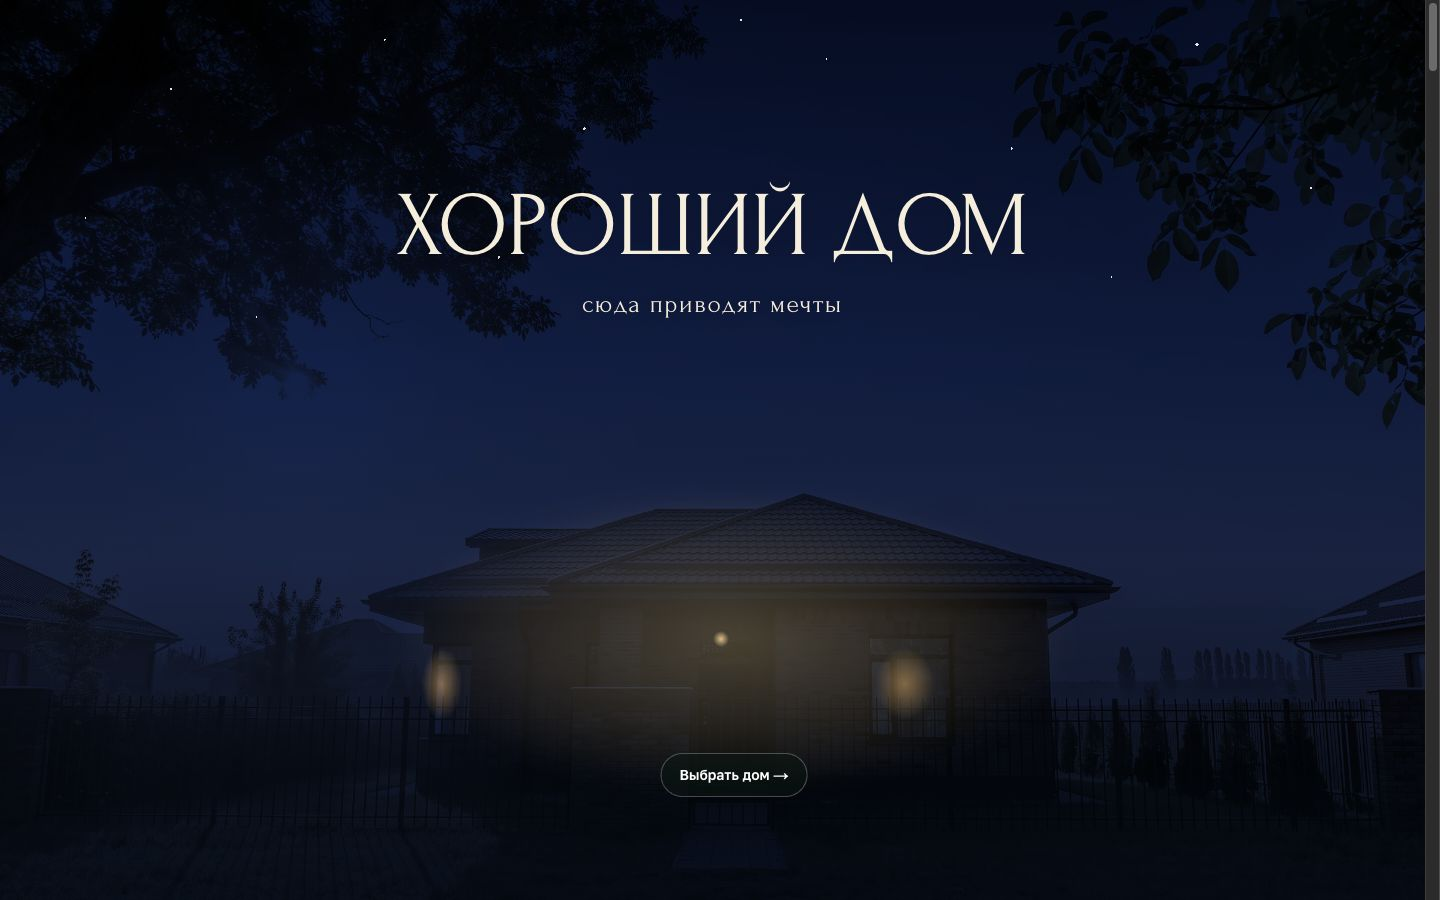
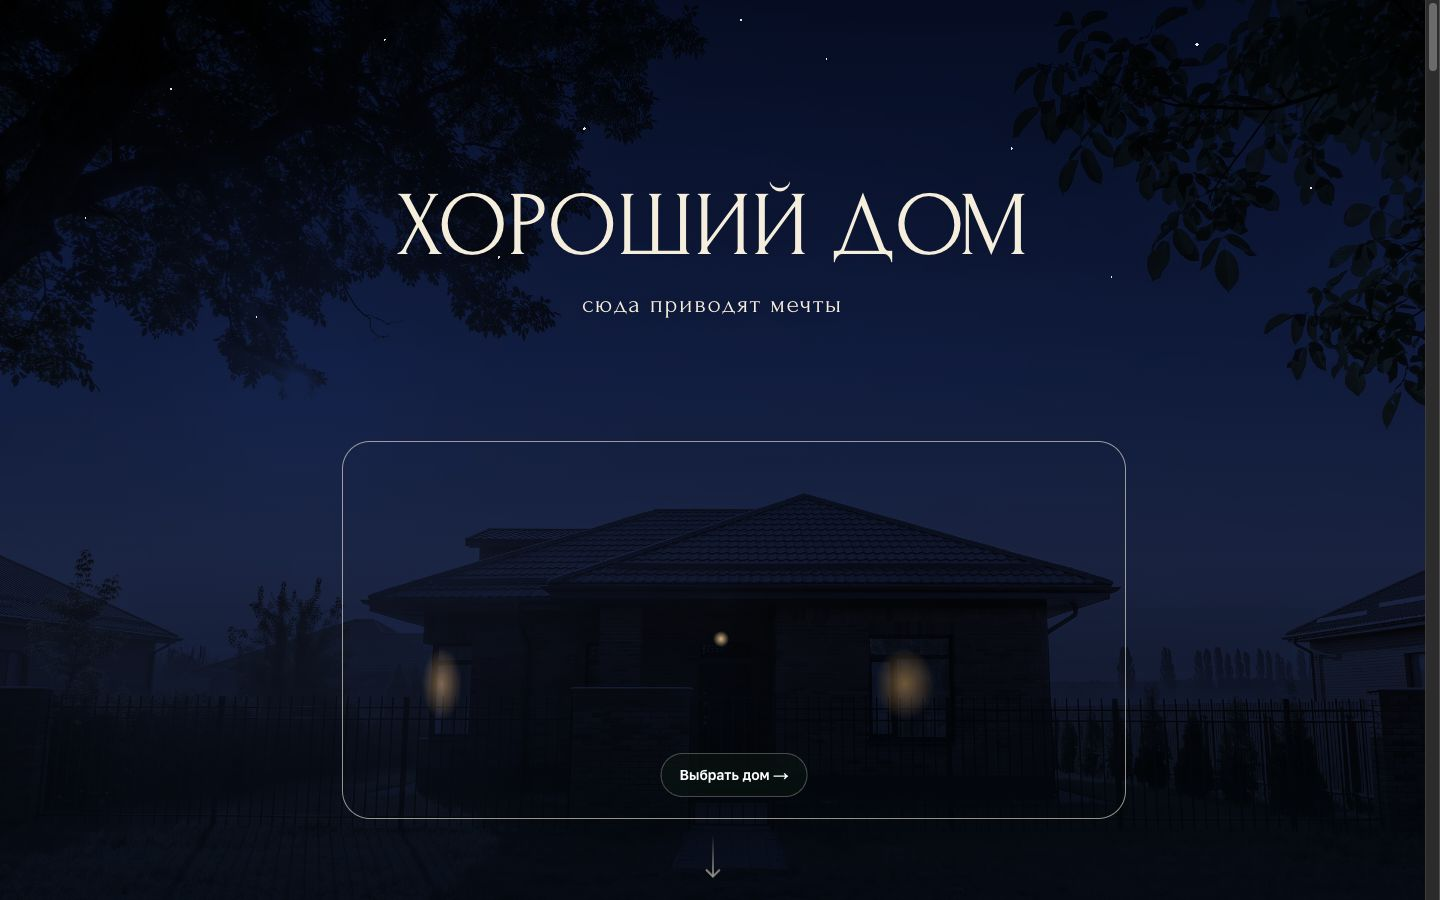
Первый экран: контурная обводка дома в цвет шрифта, свет в окнах после кометы, анимированная подсказка свайпа

Changed region(s): [[0.3438, 0.5911, 0.6875, 0.84]]

diff --git a/src/app/(frontend)/v2.css b/src/app/(frontend)/v2.css
@@ -838,10 +838,13 @@ html.no-motion .v2-steam { display: none; }/* one line from a book over the morn
 .hn__night { opacity: calc(1 - min(1, var(--p) * 1.35)); }
 .hn__night--css img { filter: brightness(.62) saturate(.35) contrast(1.1); transform: scale(1.06); }
 .hn__night--css::after { content: ""; position: absolute; inset: 0; background: linear-gradient(#0c1a44 0%, #1d3270 40%, #2c3f78 62%, #1a2448 100%); mix-blend-mode: multiply; }
-.hn__windows { position: absolute; inset: 0; z-index: 1; background:
+.hn__windows { position: absolute; inset: 0; z-index: 1; opacity: 0; background:
   radial-gradient(2cqw 3.6cqw at 31% 76%, rgba(255, 190, 100, .55), transparent 70%),
   radial-gradient(3cqw 3.6cqw at 63.5% 76%, rgba(255, 190, 100, .5), transparent 70%),
-  radial-gradient(.8cqw .8cqw at 50.6% 71%, rgba(255, 214, 150, .9), transparent 70%); mix-blend-mode: screen; }
+  radial-gradient(.8cqw .8cqw at 50.6% 71%, rgba(255, 214, 150, .9), transparent 70%); mix-blend-mode: screen;
+  /* the light in the windows turns on right after the comet's first fall (hn-star: .7s delay, the fall ≈1.2s) */
+  animation: hn-windows-on 1.4s 1.7s ease-out forwards; }
+@keyframes hn-windows-on { to { opacity: 1; } }
 .hn__stars { position: absolute; inset: 0 0 45%; z-index: 1; opacity: .9; background-image:
   radial-gradient(1.2px 1.2px at 12% 18%, #fff 98%, transparent), radial-gradient(1px 1px at 27% 8%, #fff 98%, transparent),
   radial-gradient(1.4px 1.4px at 41% 26%, #fff 98%, transparent), radial-gradient(1px 1px at 58% 12%, #fff 98%, transparent),
@@ -866,20 +869,28 @@ html.no-motion .v2-steam { display: none; }/* one line from a book over the morn
 .hn__slogan { font-family: var(--font-brand); font-size: clamp(18px, 1.8cqw, 26px); letter-spacing: .06em; text-shadow: 0 2px 20px rgba(8, 16, 40, .65); transition: text-shadow .6s; }
 .hn.is-day .hn__copy { color: #14301f; }
 .hn.is-day :is(.hn__title, .hn__slogan) { text-shadow: 0 1px 18px rgba(255, 255, 255, .6); }
-/* the house is the entry: a soft warm halo breathes over it — light, not a frame; the label shows on hover/focus,
-   a click zooms in and opens the catalog */
+/* the house is the entry: a thin contour in the brand font colour (10.11, Игорь — no breathing halo). The windows
+   light up right after the comet's first fall; the «Выбрать дом» label shows on hover/focus, a click opens the catalog */
 .hn__house { position: absolute; z-index: 4; left: 24%; top: 49%; width: 55%; height: 42%; display: block; }
-.hn__house > i { position: absolute; inset: -14%; pointer-events: none; opacity: 0; filter: blur(8px);
-  background: radial-gradient(ellipse 50% 46% at 50% 52%, rgba(255, 226, 160, .34) 0%, rgba(255, 214, 140, .15) 42%, transparent 68%);
-  animation: hn-glow-in 1.4s 1.1s both, hn-glow 4s 2.5s ease-in-out infinite; }
-@keyframes hn-glow-in { to { opacity: .85; } }
-@keyframes hn-glow { 0%, 100% { opacity: .5; } 50% { opacity: 1; } }
+.hn__house > i { position: absolute; inset: 0; pointer-events: none; opacity: 0; border: 1px solid rgba(246, 238, 221, .6); border-radius: 28px;
+  animation: hn-glow-in 1.4s 1.1s both; }
+@keyframes hn-glow-in { to { opacity: 1; } }
 .hn__house > span { position: absolute; left: 50%; bottom: 22px; translate: -50% 0; white-space: nowrap; opacity: 0; transition: opacity .25s;
   padding: 10px 18px; border-radius: 999px; font-size: 14px; font-weight: 600; color: #fff;
   background: rgba(10, 22, 16, .55); border: 1px solid rgba(255, 255, 255, .25); backdrop-filter: blur(10px); -webkit-backdrop-filter: blur(10px); }
 .hn__house:hover > span, .hn__house:focus-visible > span { opacity: 1; }
 .hn__house:focus-visible { outline: 2px solid rgba(255, 238, 200, .9); outline-offset: 4px; border-radius: 28px; }
 /* the click: a slow push into the house and a warm fade, then the catalog opens (HeroNight.enterCatalog) */
+/* the swipe cue: a small line with a chevron drifting down — «keep scrolling», no words (10.11, Игорь) */
+.hn__swipe { position: absolute; z-index: 4; left: 50%; bottom: 26px; translate: -50% 0; width: 2px; height: 42px; border-radius: 2px;
+  background: linear-gradient(transparent, rgba(246, 238, 221, .85)); pointer-events: none;
+  animation: hn-swipe 2.4s ease-in-out infinite; }
+.hn__swipe::after { content: ""; position: absolute; left: 50%; bottom: 1px; width: 9px; height: 9px;
+  border-right: 2px solid rgba(246, 238, 221, .85); border-bottom: 2px solid rgba(246, 238, 221, .85);
+  transform: translateX(-50%) rotate(45deg); }
+@keyframes hn-swipe { 0%, 100% { transform: translateY(0); opacity: .45; } 50% { transform: translateY(9px); opacity: 1; } }
+.hn.is-day .hn__swipe { background: linear-gradient(transparent, rgba(20, 48, 31, .75)); }
+.hn.is-day .hn__swipe::after { border-color: rgba(20, 48, 31, .75); }
 .hn__flash { position: absolute; inset: 0; z-index: 6; background: #fbf3e2; opacity: 0; pointer-events: none; transition: opacity .5s ease; }
 .hn__day img, .hn__night img { transition: transform .55s cubic-bezier(.3, .6, .3, 1); }
 .hn.is-leaving .hn__day img, .hn.is-leaving .hn__night img { transform: scale(1.16); }
@@ -892,7 +903,7 @@ html.no-motion .v2-steam { display: none; }/* one line from a book over the morn
   .hn__windows { display: none; }
   .hn__star { width: 34cqw; top: 6%; right: 8%; }
 }
-@media (prefers-reduced-motion: reduce) { .hn__star { display: none; } .hn__day img { transform: none; } .hn__house > i { animation: none; opacity: 1; } }
+@media (prefers-reduced-motion: reduce) { .hn__star { display: none; } .hn__day img { transform: none; } .hn__house > i { animation: none; opacity: 1; } .hn__windows { animation: none; opacity: 1; } .hn__swipe { animation: none; } }
 html.no-motion .hn__star { display: none; }
 
 /* просмотр GLB «Тип 5» из Kimi 3D Make (только data-look=v2, тёмные палитры не трогаем) */

diff --git a/src/components/heroes/HeroNight.tsx b/src/components/heroes/HeroNight.tsx
@@ -81,6 +81,7 @@ export function HeroNight({ night, nightPhone }: { night?: string; nightPhone?: 
           <i aria-hidden />
           <span>Выбрать дом →</span>
         </a>
+        <i className="hn__swipe" aria-hidden />
         <i className="hn__flash" aria-hidden />
       </div>
     </section>

diff --git a/СЕЙЧАС.md b/СЕЙЧАС.md
@@ -106,6 +106,7 @@
 ## Последние изменения
 
 <!-- auto:start -->
+- 10.11 · Игорь · Первый экран: контурная обводка дома в цвет шрифта, свет в окнах после кометы, анимированная подсказка свайпа _(v2.css, HeroNight.tsx, cinema_hover_1440.jpg, cinema_hover_390.jpg и ещё 4)_
 - 10.11 · Игорь · Первый экран: вернул слоган «Хороший дом — сюда приводят мечты», подсветка дома — мягкое световое пятно без рамки _(v2.css, HeroNight.tsx, cinema_hover_1440.jpg, cinema_hover_390.jpg и ещё 4)_
 - 10.11 · Игорь · Первый экран — чистое кино: дом светится и кликабелен, шапка и плавающие кнопки со второго экрана _(v2.css, HeroNight.tsx, cinemashots.py, cinema_afterclick_1440.jpg и ещё 7)_
 - 10.11 · Игорь · Dev-сервер слушает все адреса: localhost теперь доступен и по IPv6 _(package.json)_
@@ -135,5 +136,4 @@
 - 08.11 · Игорь · 3D-генплан: телефон (камера по ширине блока, ценники не налезают), ландшафт ?land=model|day, время суток ?time=1, плашка «Уже купили»; скрины в задание-Игорю-08-11/снимки _(Genplan3D.tsx, 05-регион-телефон-стало.png, 06-динская-телефон-стало.png, 07-land-model-ПК.png и ещё 4)_
 - 08.11 · Илья · Задание Игорю: разбор видео-референса (3D-экран застройщика Upside) — время суток «Утро · День · Вечер · Ночь» на генплане, шаги A–D по 3D _(ЗАДАНИЕ.html, ЗАДАНИЕ.md)_
 - 08.11 · Илья · Задание Игорю, 08.11, версия 2: видео и 3D одной задачей, экраны и вся идея — оценка каркаса, письма дизайнерам Богдану и Никитосу _(ЗАДАНИЕ.html, ЗАДАНИЕ.md)_
-- 08.11 · Илья · Задание Игорю на 08.11: видение сайта по каркасу «ночь → рассвет → день», ландшафт 3D в двух вариантах и генплан на телефоне _(ЗАДАНИЕ.md, каркас-главной.md, ночь-рассвет.html, 01-регион-ПК.png и ещё 3)_
 <!-- auto:end -->
